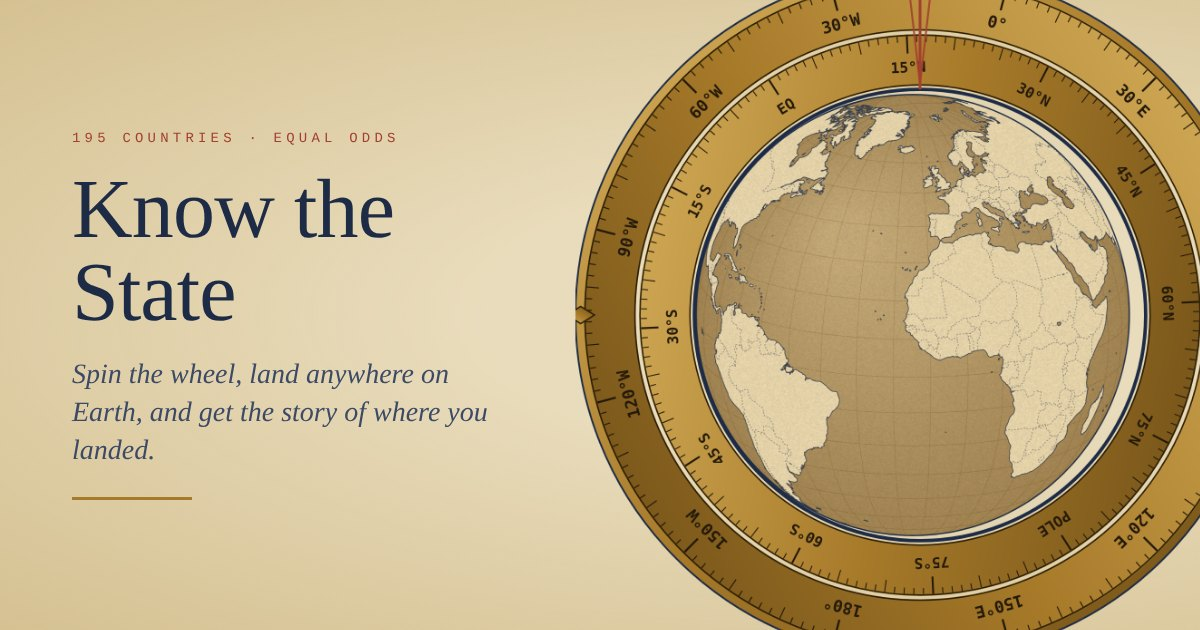
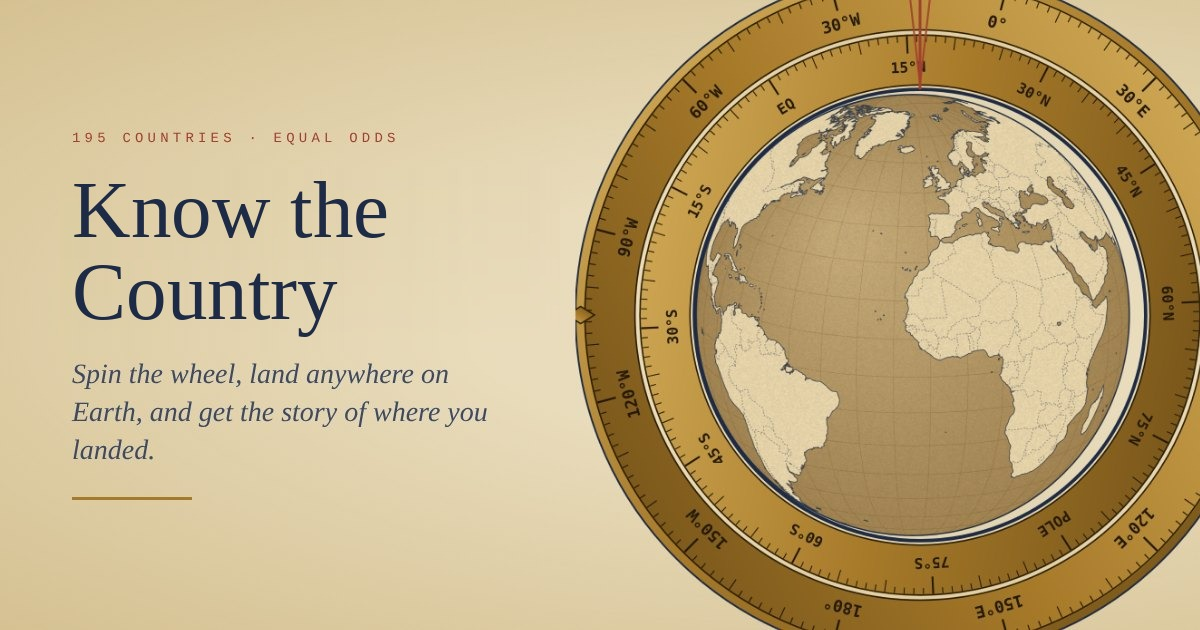
Rename game to Know the Country
Claude-Session: https://claude.ai/code/session_014e9w5yEnoPdLVXa4nCrwUL

Changed region(s): [[0.0617, 0.2714, 0.3392, 0.3921], [0.0617, 0.4222, 0.2775, 0.5429]]

diff --git a/index.html b/index.html
@@ -3,7 +3,7 @@
 <head>
 <meta charset="utf-8">
 <meta name="viewport" content="width=device-width, initial-scale=1, viewport-fit=cover">
-<title>Know the State</title>
+<title>Know the Country</title>
 <meta name="description" content="Spin an antique astrolabe wheel, watch the globe land on a random country, and read a passport-page card about it: local time, a claim to fame, key facts and more. 195 countries, equal odds.">
 <meta name="keywords" content="geography game, random country generator, world countries facts, spin the globe, learn geography, country facts">
 <meta name="author" content="Ekta Bhoraniya">
@@ -16,21 +16,21 @@
 <link rel="apple-touch-icon" href="public/apple-touch-icon.png">
 <link rel="manifest" href="public/site.webmanifest">
 <meta property="og:type" content="website">
-<meta property="og:site_name" content="Know the State">
-<meta property="og:title" content="Know the State">
+<meta property="og:site_name" content="Know the Country">
+<meta property="og:title" content="Know the Country">
 <meta property="og:description" content="Spin the wheel, land anywhere on Earth, and get the story of where you landed. 195 countries, equal odds.">
 <meta property="og:url" content="https://ekta-bhoraniya.github.io/know-the-country/">
 <meta property="og:image" content="https://ekta-bhoraniya.github.io/know-the-country/public/og-image.jpg">
 <meta property="og:image:width" content="1200">
 <meta property="og:image:height" content="630">
-<meta property="og:image:alt" content="A brass astrolabe wheel around a parchment globe, beside the title Know the State.">
+<meta property="og:image:alt" content="A brass astrolabe wheel around a parchment globe, beside the title Know the Country.">
 <meta property="og:locale" content="en_GB">
 <meta name="twitter:card" content="summary_large_image">
-<meta name="twitter:title" content="Know the State">
+<meta name="twitter:title" content="Know the Country">
 <meta name="twitter:description" content="Spin the wheel, land anywhere on Earth, and get the story of where you landed.">
 <meta name="twitter:image" content="https://ekta-bhoraniya.github.io/know-the-country/public/og-image.jpg">
-<meta name="twitter:image:alt" content="A brass astrolabe wheel around a parchment globe, beside the title Know the State.">
-<script type="application/ld+json">{"@context":"https://schema.org","@type":"WebApplication","name":"Know the State","url":"https://ekta-bhoraniya.github.io/know-the-country/","description":"Spin a wheel, land on a random country and learn about it.","applicationCategory":"EducationalApplication","operatingSystem":"Any","browserRequirements":"Requires JavaScript","inLanguage":"en","isAccessibleForFree":true,"image":"https://ekta-bhoraniya.github.io/know-the-country/public/og-image.jpg","offers":{"@type":"Offer","price":"0","priceCurrency":"USD"}}</script>
+<meta name="twitter:image:alt" content="A brass astrolabe wheel around a parchment globe, beside the title Know the Country.">
+<script type="application/ld+json">{"@context":"https://schema.org","@type":"WebApplication","name":"Know the Country","url":"https://ekta-bhoraniya.github.io/know-the-country/","description":"Spin a wheel, land on a random country and learn about it.","applicationCategory":"EducationalApplication","operatingSystem":"Any","browserRequirements":"Requires JavaScript","inLanguage":"en","isAccessibleForFree":true,"image":"https://ekta-bhoraniya.github.io/know-the-country/public/og-image.jpg","offers":{"@type":"Offer","price":"0","priceCurrency":"USD"}}</script>
 <meta name="claude:viewport-fit-sides" content="cover">
 <link rel="preconnect" href="https://fonts.googleapis.com">
 <link rel="preconnect" href="https://fonts.gstatic.com" crossorigin>
@@ -183,7 +183,7 @@ button:focus-visible{outline:2px solid var(--focus);outline-offset:3px}
   <canvas id="globe" aria-hidden="true"></canvas>
   <svg id="wheel" viewBox="-200 -200 400 400" aria-hidden="true"></svg>
   <header>
-    <div class="brand"><h1>Know the State</h1><span>A spinning atlas</span></div>
+    <div class="brand"><h1>Know the Country</h1><span>A spinning atlas</span></div>
     <div class="toggles">
       <button class="tog" id="tSound" aria-pressed="true" title="Ratchet and stamp sounds">Sound</button>
       <button class="tog" id="tMotion" aria-pressed="false" title="Replace the spin with a quick fade">Reduce motion</button>
@@ -205,7 +205,7 @@ button:focus-visible{outline:2px solid var(--focus);outline-offset:3px}
   <div class="toast" id="toast" role="status"></div>
   <div class="sr" aria-live="polite" id="live"></div>
 </main>
-<noscript><p style="padding:24px;font:16px Georgia,serif">Know the State needs JavaScript to spin the globe. Turn it on to explore 195 countries.</p></noscript>
+<noscript><p style="padding:24px;font:16px Georgia,serif">Know the Country needs JavaScript to spin the globe. Turn it on to explore 195 countries.</p></noscript>
 
 <script src="https://cdnjs.cloudflare.com/ajax/libs/d3/7.9.0/d3.min.js"></script>
 <script src="https://cdnjs.cloudflare.com/ajax/libs/topojson/3.0.2/topojson.min.js"></script>
@@ -431,7 +431,7 @@ function stampSVG(m,dateStr){const nm=m.name.toUpperCase();
   <g fill="currentColor" font-family="Courier Prime, monospace" font-weight="700">
   <text font-size="${nm.length>16?7.5:10}" letter-spacing="1.5"><textPath href="#arcT" startOffset="50%" text-anchor="middle">${esc(nm)}</textPath></text>
   <text font-size="8" letter-spacing="2"><textPath href="#arcB" startOffset="50%" text-anchor="middle">★ ARRIVED ★</textPath></text>
-  <text x="60" y="57" font-size="9.5" text-anchor="middle">${esc(dateStr)}</text><text x="60" y="70" font-size="7" text-anchor="middle" letter-spacing="1">KNOW THE STATE</text></g></svg>`;}
+  <text x="60" y="57" font-size="9.5" text-anchor="middle">${esc(dateStr)}</text><text x="60" y="70" font-size="5.5" text-anchor="middle" letter-spacing=".3">KNOW THE COUNTRY</text></g></svg>`;}
 function tzOffset(tz,d){try{const p=new Intl.DateTimeFormat('en-US',{timeZone:tz,timeZoneName:'longOffset'}).formatToParts(d).find(x=>x.type==='timeZoneName').value;
   const m=p.match(/GMT([+-])(\d{1,2}):?(\d{2})?/);return m?(m[1]==='-'?-1:1)*(+m[2]*60+ +(m[3]||0)):0;}catch(e){return 0}}
 function pinZone(m,pt){let best=null,bd=9;for(const z of m.tz){const d=d3.geoDistance(pt,[z[2],z[1]]);if(d<bd){bd=d;best=z[0];}}return best;}

diff --git a/src/template.html b/src/template.html
@@ -1,4 +1,4 @@
-<title>Know the State</title>
+<title>Know the Country</title>
 <meta name="description" content="Spin an antique astrolabe wheel, watch the globe land on a random country, and read a passport-page card about it: local time, a claim to fame, key facts and more. 195 countries, equal odds.">
 <meta name="keywords" content="geography game, random country generator, world countries facts, spin the globe, learn geography, country facts">
 <meta name="author" content="Ekta Bhoraniya">
@@ -11,21 +11,21 @@
 <link rel="apple-touch-icon" href="public/apple-touch-icon.png">
 <link rel="manifest" href="public/site.webmanifest">
 <meta property="og:type" content="website">
-<meta property="og:site_name" content="Know the State">
-<meta property="og:title" content="Know the State">
+<meta property="og:site_name" content="Know the Country">
+<meta property="og:title" content="Know the Country">
 <meta property="og:description" content="Spin the wheel, land anywhere on Earth, and get the story of where you landed. 195 countries, equal odds.">
 <meta property="og:url" content="%SITE_URL%">
 <meta property="og:image" content="%SITE_URL%public/og-image.jpg">
 <meta property="og:image:width" content="1200">
 <meta property="og:image:height" content="630">
-<meta property="og:image:alt" content="A brass astrolabe wheel around a parchment globe, beside the title Know the State.">
+<meta property="og:image:alt" content="A brass astrolabe wheel around a parchment globe, beside the title Know the Country.">
 <meta property="og:locale" content="en_GB">
 <meta name="twitter:card" content="summary_large_image">
-<meta name="twitter:title" content="Know the State">
+<meta name="twitter:title" content="Know the Country">
 <meta name="twitter:description" content="Spin the wheel, land anywhere on Earth, and get the story of where you landed.">
 <meta name="twitter:image" content="%SITE_URL%public/og-image.jpg">
-<meta name="twitter:image:alt" content="A brass astrolabe wheel around a parchment globe, beside the title Know the State.">
-<script type="application/ld+json">{"@context":"https://schema.org","@type":"WebApplication","name":"Know the State","url":"%SITE_URL%","description":"Spin a wheel, land on a random country and learn about it.","applicationCategory":"EducationalApplication","operatingSystem":"Any","browserRequirements":"Requires JavaScript","inLanguage":"en","isAccessibleForFree":true,"image":"%SITE_URL%public/og-image.jpg","offers":{"@type":"Offer","price":"0","priceCurrency":"USD"}}</script>
+<meta name="twitter:image:alt" content="A brass astrolabe wheel around a parchment globe, beside the title Know the Country.">
+<script type="application/ld+json">{"@context":"https://schema.org","@type":"WebApplication","name":"Know the Country","url":"%SITE_URL%","description":"Spin a wheel, land on a random country and learn about it.","applicationCategory":"EducationalApplication","operatingSystem":"Any","browserRequirements":"Requires JavaScript","inLanguage":"en","isAccessibleForFree":true,"image":"%SITE_URL%public/og-image.jpg","offers":{"@type":"Offer","price":"0","priceCurrency":"USD"}}</script>
 <meta name="claude:viewport-fit-sides" content="cover">
 <link rel="preconnect" href="https://fonts.googleapis.com">
 <link rel="preconnect" href="https://fonts.gstatic.com" crossorigin>
@@ -176,7 +176,7 @@ button:focus-visible{outline:2px solid var(--focus);outline-offset:3px}
   <canvas id="globe" aria-hidden="true"></canvas>
   <svg id="wheel" viewBox="-200 -200 400 400" aria-hidden="true"></svg>
   <header>
-    <div class="brand"><h1>Know the State</h1><span>A spinning atlas</span></div>
+    <div class="brand"><h1>Know the Country</h1><span>A spinning atlas</span></div>
     <div class="toggles">
       <button class="tog" id="tSound" aria-pressed="true" title="Ratchet and stamp sounds">Sound</button>
       <button class="tog" id="tMotion" aria-pressed="false" title="Replace the spin with a quick fade">Reduce motion</button>
@@ -198,7 +198,7 @@ button:focus-visible{outline:2px solid var(--focus);outline-offset:3px}
   <div class="toast" id="toast" role="status"></div>
   <div class="sr" aria-live="polite" id="live"></div>
 </main>
-<noscript><p style="padding:24px;font:16px Georgia,serif">Know the State needs JavaScript to spin the globe. Turn it on to explore 195 countries.</p></noscript>
+<noscript><p style="padding:24px;font:16px Georgia,serif">Know the Country needs JavaScript to spin the globe. Turn it on to explore 195 countries.</p></noscript>
 
 <script src="https://cdnjs.cloudflare.com/ajax/libs/d3/7.9.0/d3.min.js"></script>
 <script src="https://cdnjs.cloudflare.com/ajax/libs/topojson/3.0.2/topojson.min.js"></script>
@@ -424,7 +424,7 @@ function stampSVG(m,dateStr){const nm=m.name.toUpperCase();
   <g fill="currentColor" font-family="Courier Prime, monospace" font-weight="700">
   <text font-size="${nm.length>16?7.5:10}" letter-spacing="1.5"><textPath href="#arcT" startOffset="50%" text-anchor="middle">${esc(nm)}</textPath></text>
   <text font-size="8" letter-spacing="2"><textPath href="#arcB" startOffset="50%" text-anchor="middle">★ ARRIVED ★</textPath></text>
-  <text x="60" y="57" font-size="9.5" text-anchor="middle">${esc(dateStr)}</text><text x="60" y="70" font-size="7" text-anchor="middle" letter-spacing="1">KNOW THE STATE</text></g></svg>`;}
+  <text x="60" y="57" font-size="9.5" text-anchor="middle">${esc(dateStr)}</text><text x="60" y="70" font-size="5.5" text-anchor="middle" letter-spacing=".3">KNOW THE COUNTRY</text></g></svg>`;}
 function tzOffset(tz,d){try{const p=new Intl.DateTimeFormat('en-US',{timeZone:tz,timeZoneName:'longOffset'}).formatToParts(d).find(x=>x.type==='timeZoneName').value;
   const m=p.match(/GMT([+-])(\d{1,2}):?(\d{2})?/);return m?(m[1]==='-'?-1:1)*(+m[2]*60+ +(m[3]||0)):0;}catch(e){return 0}}
 function pinZone(m,pt){let best=null,bd=9;for(const z of m.tz){const d=d3.geoDistance(pt,[z[2],z[1]]);if(d<bd){bd=d;best=z[0];}}return best;}

diff --git a/scripts/lib.js b/scripts/lib.js
@@ -1,5 +1,5 @@
 // Shared helpers. HTTP goes through curl so it respects HTTPS_PROXY in any environment.
 const {execFileSync}=require('child_process');
-exports.getJSON=(url,headers={})=>JSON.parse(execFileSync('curl',['-sSfL','-A','know-the-state-build/1.0',...Object.entries(headers).flatMap(([k,v])=>['-H',`${k}: ${v}`]),url],{maxBuffer:1<<28}).toString());
+exports.getJSON=(url,headers={})=>JSON.parse(execFileSync('curl',['-sSfL','-A','know-the-country-build/1.0',...Object.entries(headers).flatMap(([k,v])=>['-H',`${k}: ${v}`]),url],{maxBuffer:1<<28}).toString());
 exports.sparql=q=>exports.getJSON('https://query.wikidata.org/sparql?format=json&query='+encodeURIComponent(q),{Accept:'application/sparql-results+json'}).results.bindings;
 exports.CODES=Object.keys(require('../data/codes.json'));

diff --git a/README.md b/README.md
@@ -1,4 +1,4 @@
-# Know the State
+# Know the Country
 
 Spin an astrolabe wheel, watch the globe land on a random country, and read a passport-style card about it. MVP and v1 info card, Vintage Explorer design direction.
 
